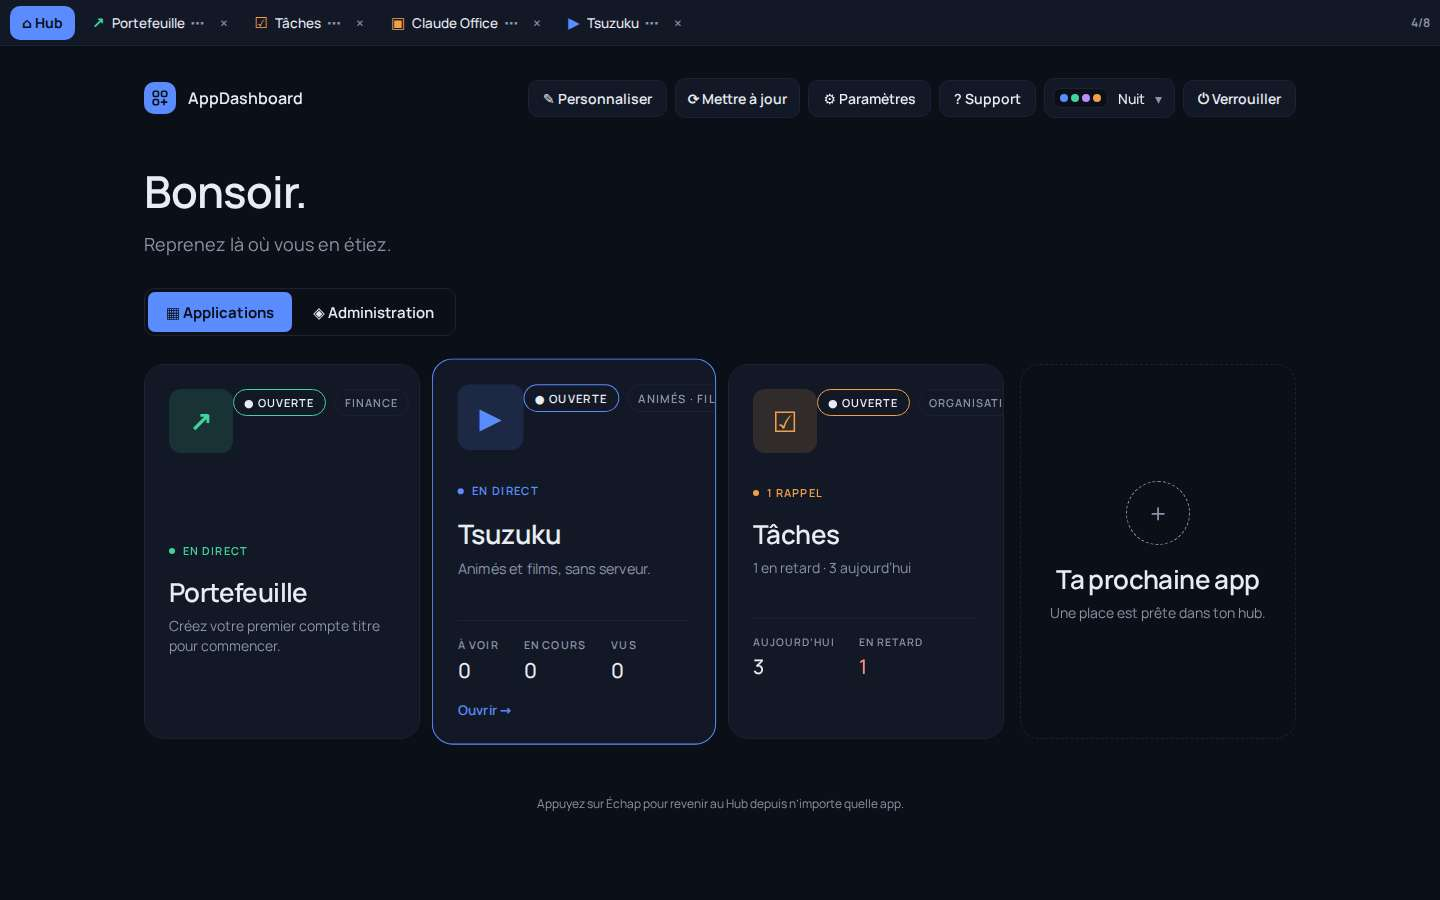
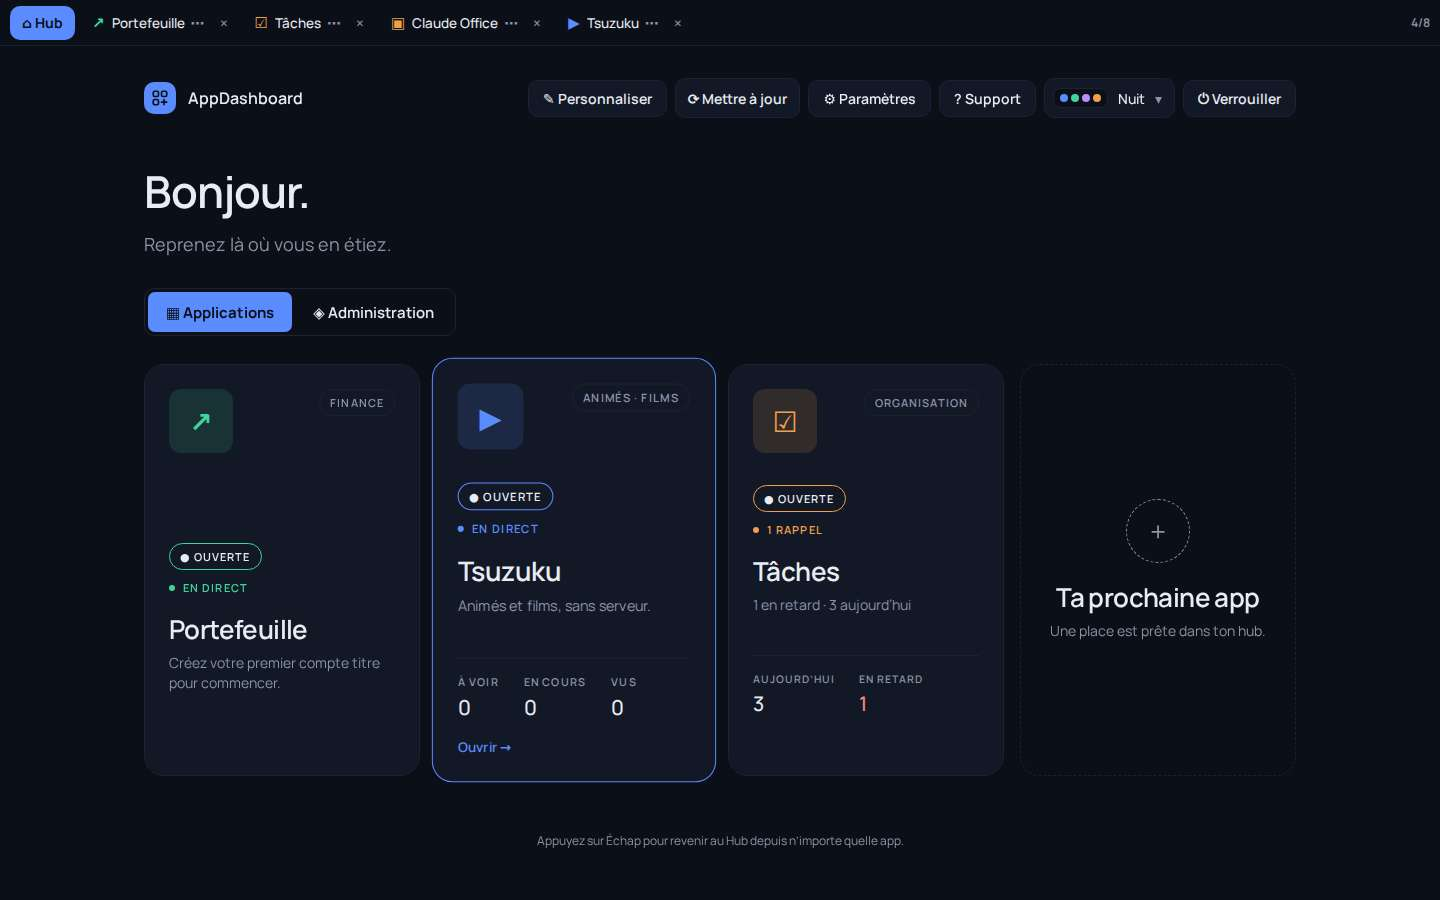
Hub : « OUVERTE » au-dessus du nom de la tuile (l'étiquette de catégorie reste entière) ; captures relues
Claude-Session: https://claude.ai/code/session_01S483ySQsPizWULzXosJ4cc

diff --git a/src/hub/Hub.tsx b/src/hub/Hub.tsx
@@ -819,6 +819,12 @@ function Tuile({
       {etatApp.maintenance && ouvrable ? ' (visible par vous seul·e : vous pouvez l’ouvrir)' : ''}
     </Text>
   ) : null;
+  // Déjà ouverte dans un onglet : la rouvrir reprend là où on l'avait laissée.
+  const marqueOuverte = (
+    <Text testID="tuile-ouverte" style={[styles.etiquette, { color: hautTexte, borderColor: blocs ? 'rgba(255,255,255,0.6)' : couleur, borderRadius: theme.rayonGrand ? 999 : 0 }]}>
+      ● OUVERTE
+    </Text>
+  );
   const etiquette = (
     <View style={styles.etiquettes}>
       {etatApp?.niveau === 'lecture' ? (
@@ -826,11 +832,7 @@ function Tuile({
           LECTURE SEULE
         </Text>
       ) : null}
-      {ouverte && !edition ? (
-        <Text testID="tuile-ouverte" style={[styles.etiquette, { color: hautTexte, borderColor: blocs ? 'rgba(255,255,255,0.6)' : couleur, borderRadius: theme.rayonGrand ? 999 : 0 }]}>
-          ● OUVERTE
-        </Text>
-      ) : null}
+      {ouverte && !edition && liste ? marqueOuverte : null}
       {epinglee ? <Text style={{ color: hautAttenue, fontSize: 12 }} accessibilityLabel="Épinglée">★</Text> : null}
       <Text
         style={[
@@ -910,6 +912,7 @@ function Tuile({
                 {etiquette}
               </View>
               <View>
+                {ouverte && !edition ? <View style={[styles.direct, { marginBottom: 10 }]}>{marqueOuverte}</View> : null}
                 {info ? (
                   <View style={styles.direct}>
                     <View style={[styles.point, { backgroundColor: blocs ? '#FFFFFF' : couleur }]} />
